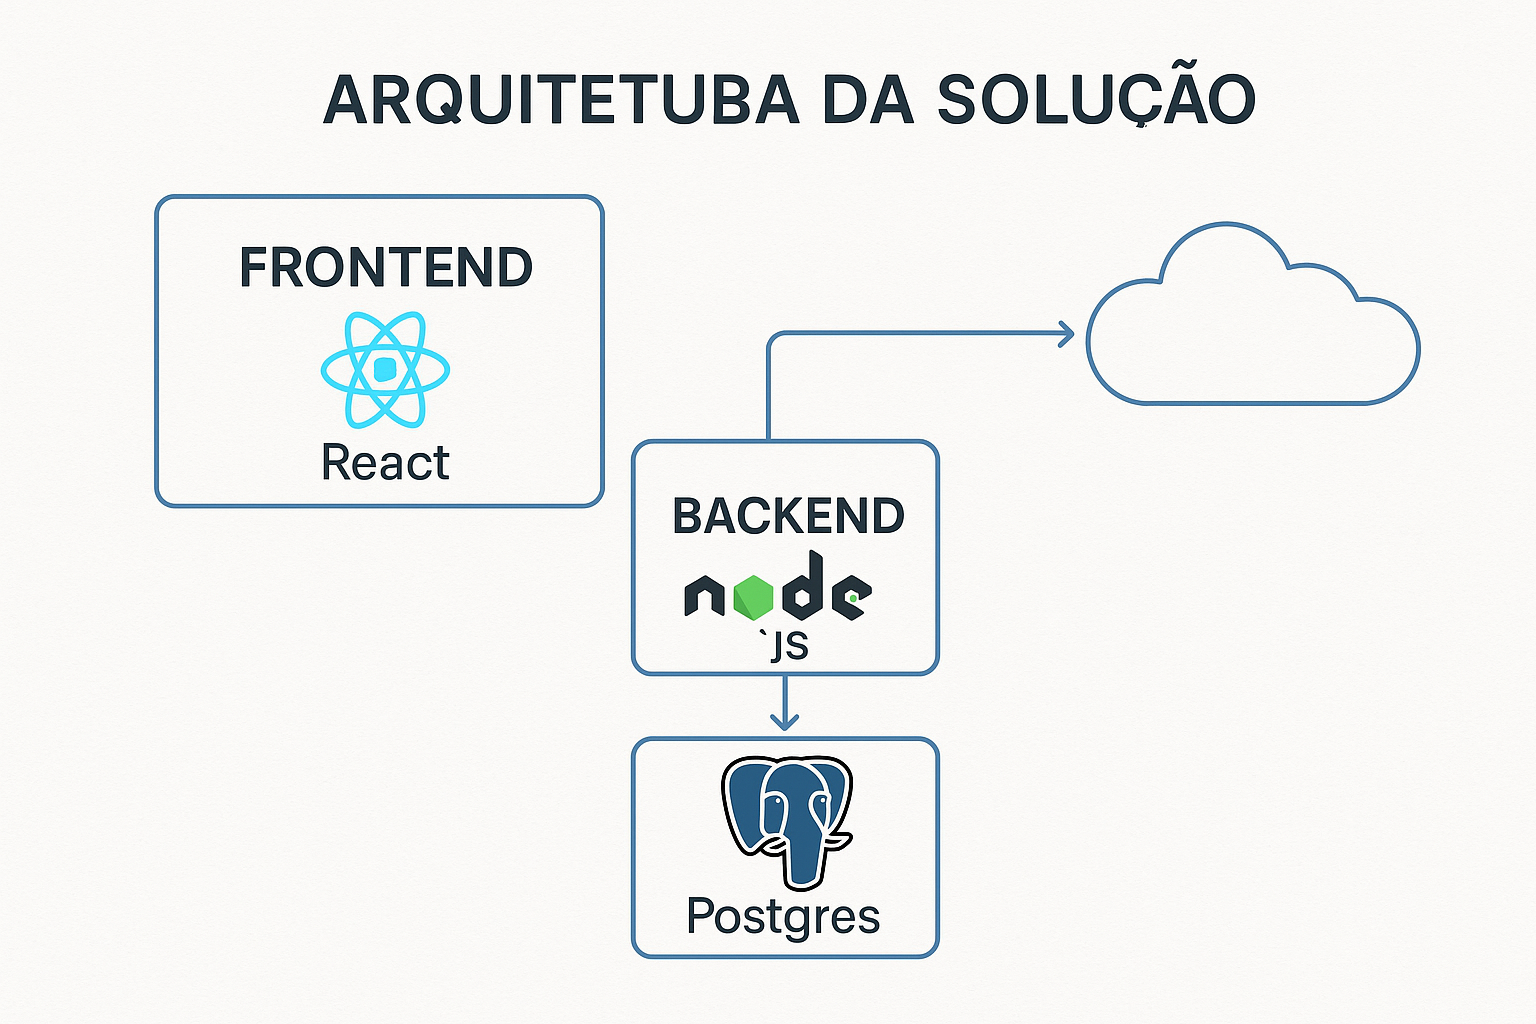
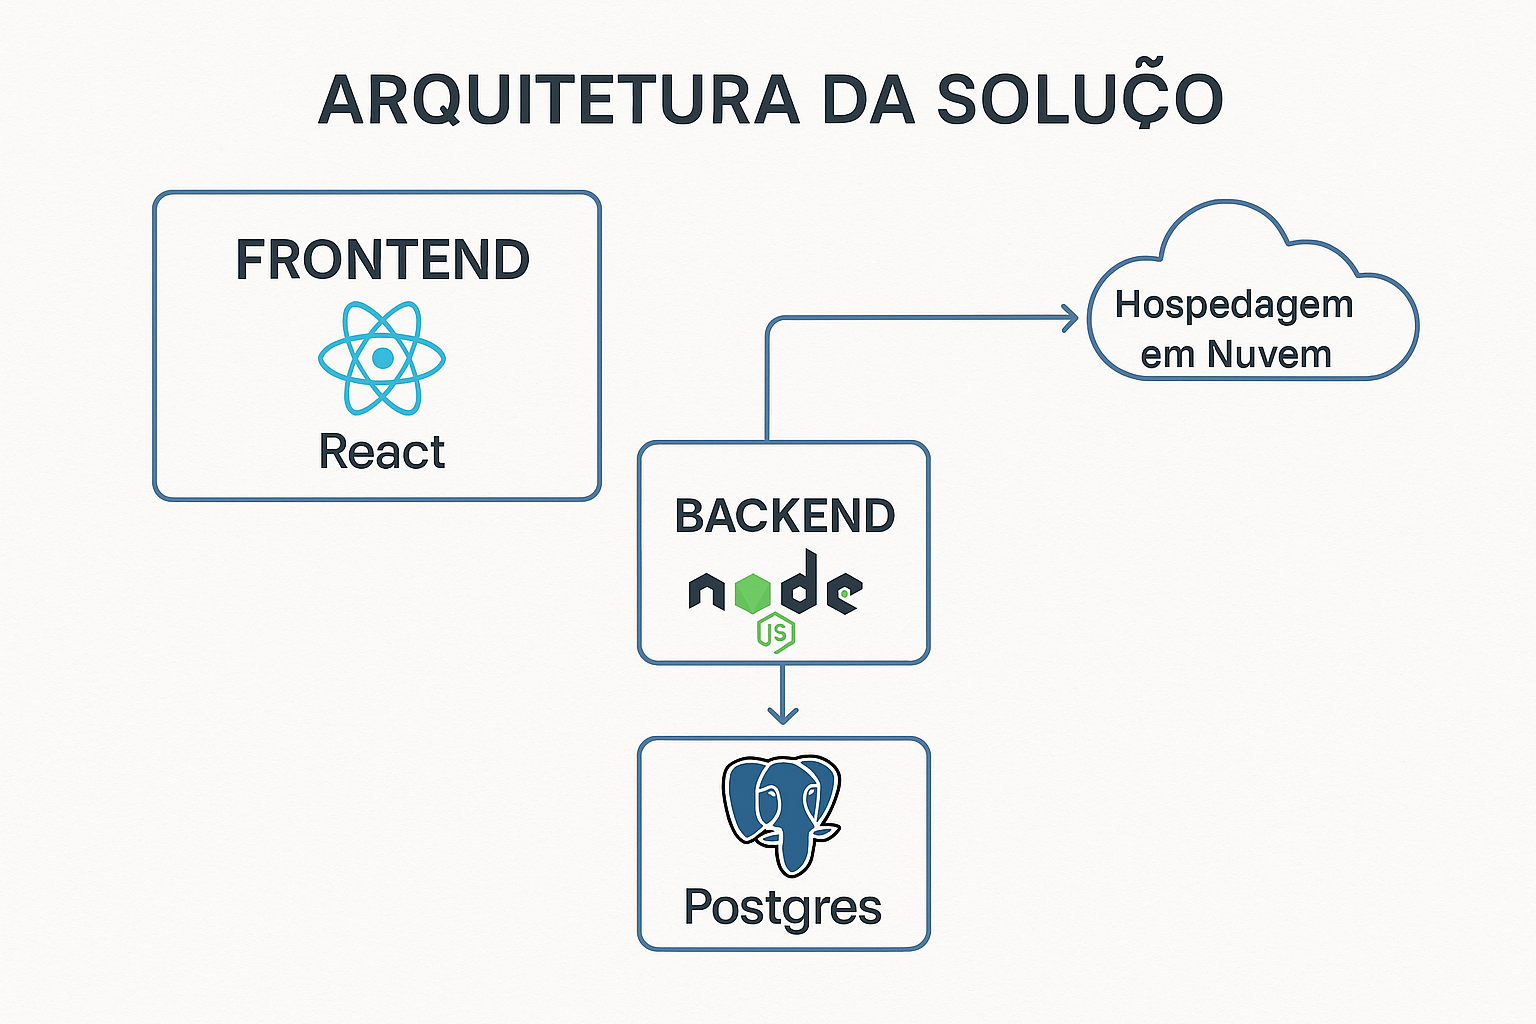
Read.me back

diff --git a/src/back/README.md b/src/back/README.md
@@ -1,1 +1,40 @@
 
+# 🧪 KnowFlow Process - Teste do Backend
+
+Este repositório contém arquivos necessarios para usar as rotas do projeto knowflow
+
+
+## ⚙ Tecnologias Utilizadas
+
+- Node.js
+- Express
+- Jest (ou Mocha/Chai)
+- Supertest (para testes de rotas HTTP)
+- dotenv (se necessário)
+
+## 🚀 Instalação e Execução
+
+1. **Clone o repositório**
+
+```bash
+1 - Crie uma pasta no seu computador chamada Knowflow 
+    ![Pasta Criada](\docs\images\pasta_criada.png)
+
+2 - Abra seu Editor de Código nesta pasta vazia.
+    ![Mudar de Pasta](\docs\images\mude_pasta.png)
+
+3 - Faça o clone com o comando: 
+    git clone https://github.com/ICEI-PUC-Minas-PCO-SI/2025-1-p3-tiapn-si-grupo-1.git .
+    * Lembre-se caso nao use o . no final do comando, use o cd para dentro da pasta criada.
+
+4 - Certifique-se no seu terminal que você possui NodeJs instalado com o comando:
+    node -v
+
+5 - Caso não possua realize a instalação pelo link: https://nodejs.org/dist/v22.16.0/node-v22.16.0-x64.msi
+
+6 - Ainda no diretório Knowflow faça o comando:
+    npm install
+
+7 - Crie um Arquivo .env na raiz da pasta back:
+    ![Criando o Env](\docs\images\create_env.png)
+    

diff --git a/docs/07-Arquitetura-solucao.md b/docs/07-Arquitetura-solucao.md
@@ -4,9 +4,8 @@
 
 A arquitetura da solução do KnowFlow é baseada em uma abordagem modular e escalável, dividida em três camadas principais: frontend, backend e banco de dados, além de um ambiente de hospedagem em nuvem para garantir acessibilidade e performance.
 
-https://raw.githubusercontent.com/ICEI-PUC-Minas-PCO-SI/2025-1-p3-tiapn-si-grupo-1/refs/heads/main/docs/images/Arquitetura_Solucao.png
 
-![Arquitetura da Solução](images/Arquitetura_Solucao.png)
+![Arquitetura da Solução](images/arquitetura_solucao.png)
 
 
 ## Diagrama de classes
